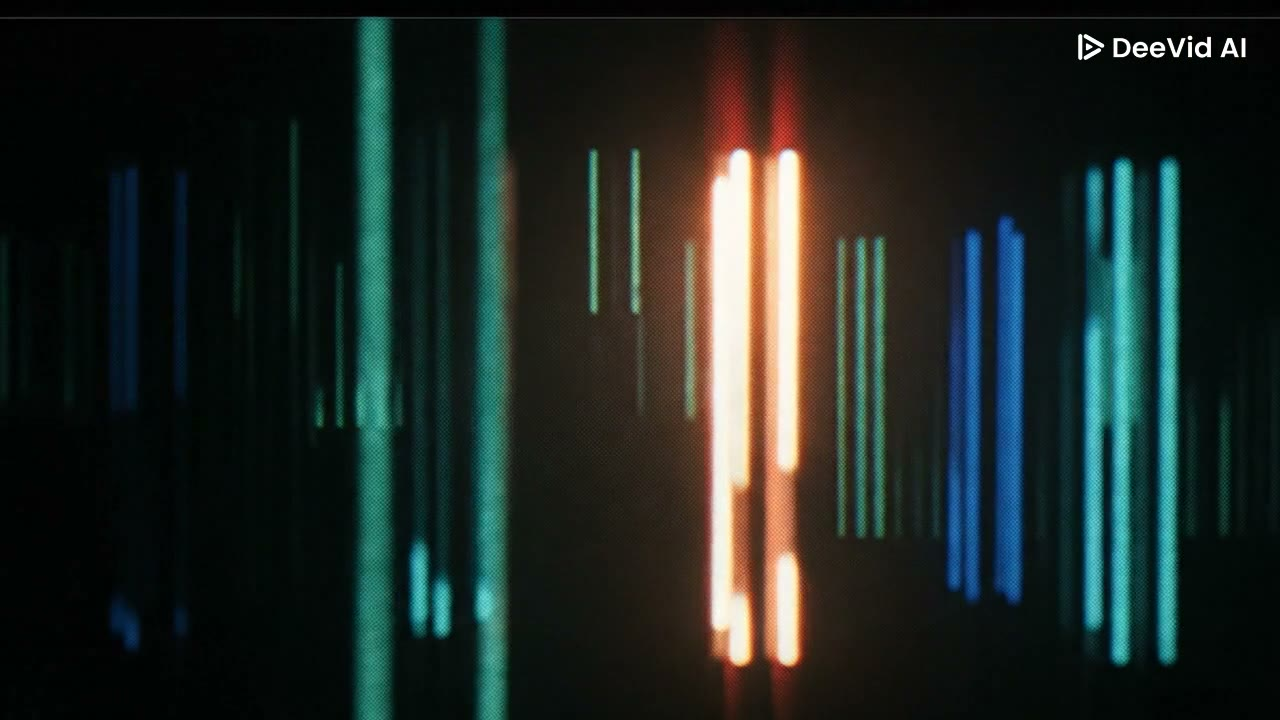
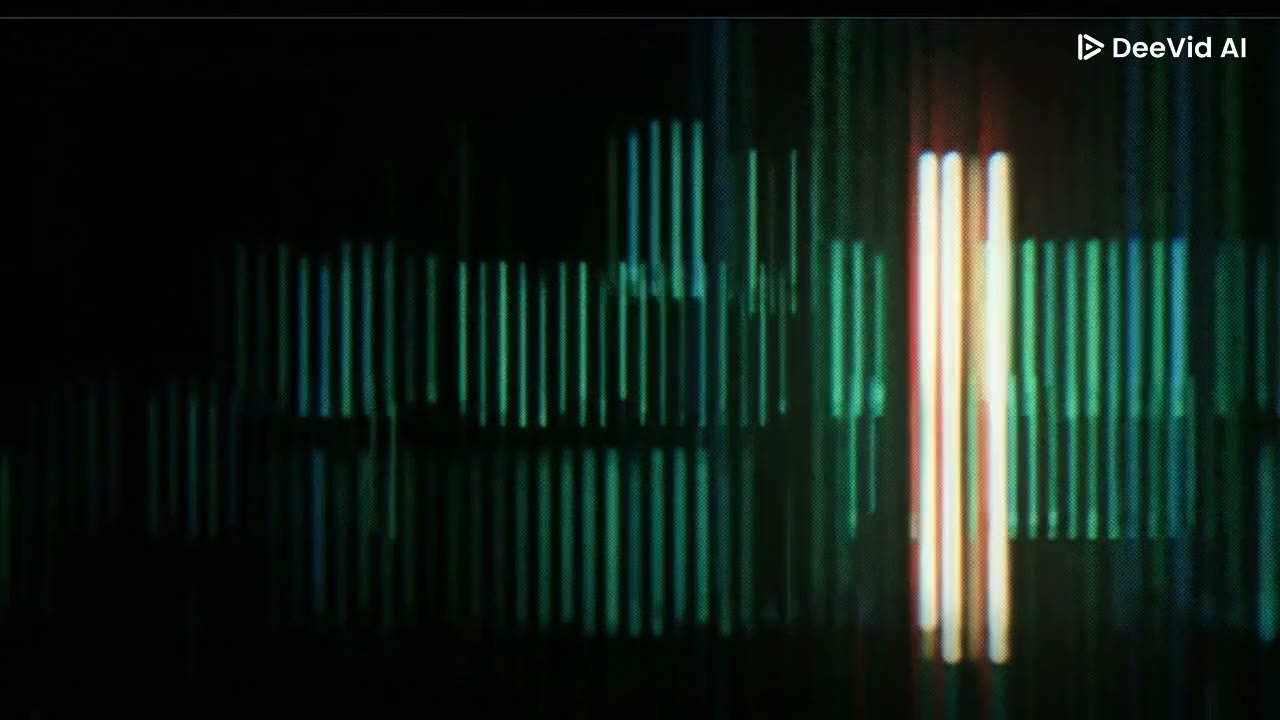
feat: 32초 매끄러운 루프 영상 (원본 속도 유지)
- bg-loop.mp4 재생성: 8초 원본 → ping-pong 16초 → concat 2번 = 32초
- 원본 속도 그대로 (setpts 슬로다운 미적용)
- 핑퐁 정수배라 끝-시작 + 중간 이음새 전부 매끄러움
- HTML source를 bg.mp4 → bg-loop.mp4로 변경
- poster.jpg 재추출 (16초 중간 지점)

diff --git a/index.html b/index.html
@@ -162,7 +162,7 @@
          preload="metadata"
          poster="poster.jpg"
          aria-hidden="true">
-    <source src="bg.mp4" type="video/mp4" />
+    <source src="bg-loop.mp4" type="video/mp4" />
   </video>
 
   <!-- 비네트 -->

diff --git a/README.md b/README.md
@@ -10,8 +10,9 @@ GitHub Pages 배포: https://biznaeil.github.io/bg-blob-demo/
 
 ## 구성
 
-- **bg.mp4** — 원본 8초 영상 (1280×720 H.264, 3.86MB). 좌우로 흐르는 네온 오로라.
-- **poster.jpg** — 비디오 미로드/모바일/저전력 시 폴백 정적 이미지 (80KB, 4초 시점 추출)
+- **bg.mp4** — 원본 8초 영상 (1280×720 H.264, 3.86MB). 소스 자산.
+- **bg-loop.mp4** — 8초 → ping-pong 16초 → concat 2번 = **32초 매끄러운 무한 루프** (원본 속도 유지, 오디오 제거, 5.55MB). 배포용.
+- **poster.jpg** — 비디오 미로드/모바일/저전력 시 폴백 정적 이미지 (70KB, 16초 시점 추출)
 - **index.html** — 4개 레이어 합성 (z:0 비디오 → z:1 비네트 → z:2 노이즈 → z:3 본문)
 
 ## 레이어 구조
@@ -34,8 +35,16 @@ z:0  ▶ 비디오 / 폴백 이미지 (.bg-video, .bg-fallback)
 
 터치 디바이스에서는 네온 트레일 캔버스도 비활성화 (마우스 없음).
 
-## 포스터 재추출
+## 영상 재생성 방법
 
 ```bash
-ffmpeg -ss 00:00:04 -i bg.mp4 -vframes 1 -q:v 3 poster.jpg
+# 8초 원본 → 32초 매끄러운 루프 (핑퐁 16s + concat 2번)
+ffmpeg -i bg.mp4 \
+  -filter_complex "[0:v]reverse[r];[0:v][r]concat=n=2:v=1[pp];[pp]split[a][b];[a][b]concat=n=2:v=1[v]" \
+  -map "[v]" -c:v libx264 -crf 24 -preset slow \
+  -movflags +faststart -an \
+  bg-loop.mp4
+
+# 포스터 추출 (16초 = 중간 지점)
+ffmpeg -ss 00:00:16 -i bg-loop.mp4 -vframes 1 -q:v 3 poster.jpg
 ```